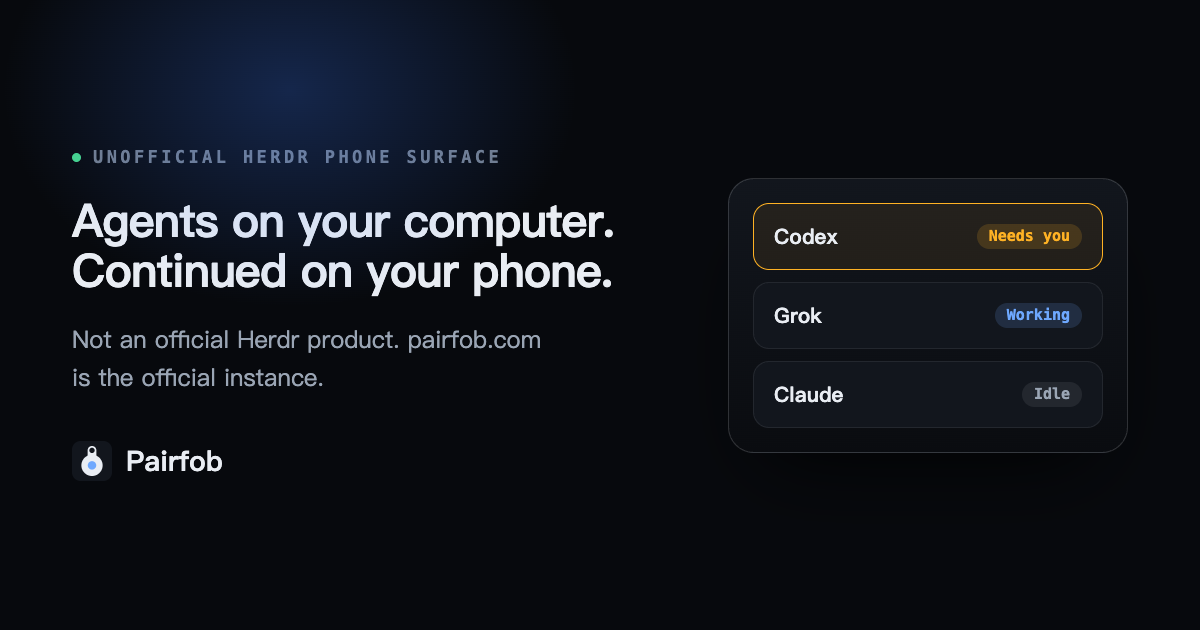
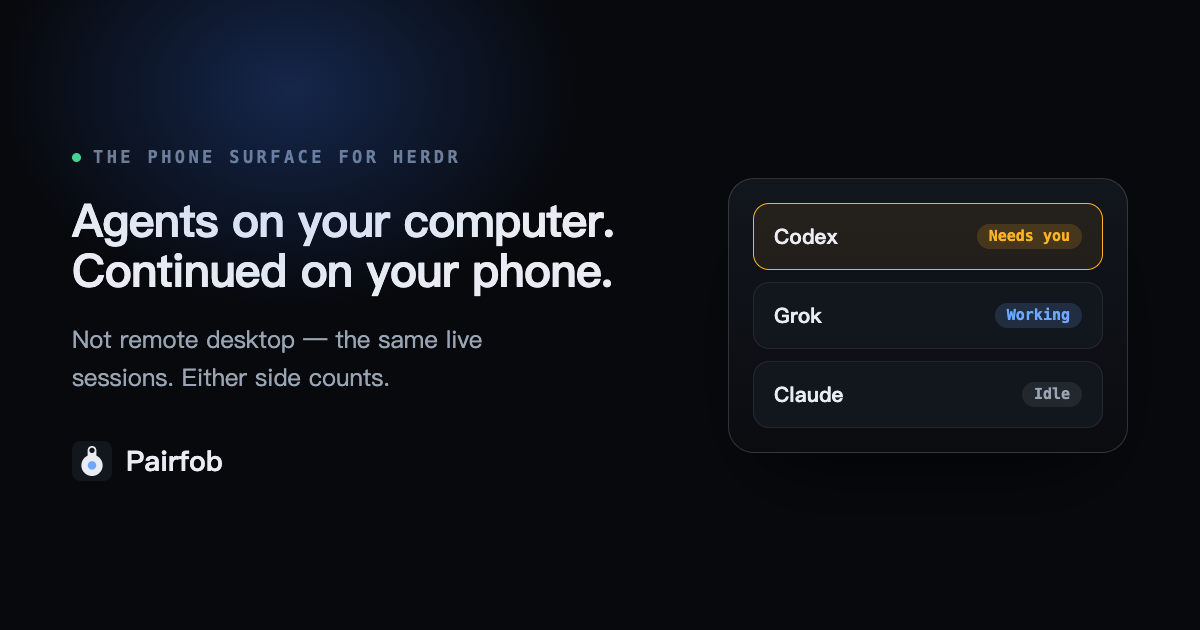
docs: drop unofficial from public copy
Lead with the product sentence. pairfob.com as the official instance stays
in the FAQ and footer.

Changed region(s): [[0.0617, 0.5127, 0.4625, 0.6333], [0.0617, 0.2413, 0.2775, 0.2714], [0.3083, 0.2413, 0.4317, 0.2714]]

diff --git a/site/index.html b/site/index.html
@@ -6,7 +6,7 @@
     <title>Pairfob — continue the AI agent session on your computer from your phone</title>
     <meta
       name="description"
-      content="Unofficial phone surface for Herdr. Continue the same live sessions from your phone. pairfob.com is this project's official instance; no account, no inbound ports."
+      content="Continue the coding agents already running on your computer from your phone. Pairfob is the phone surface for Herdr: Codex, Claude, and Grok stay one session on both sides, end-to-end encrypted, no VPN and no inbound ports."
     />
     <link rel="canonical" href="https://pairfob.com/" />
     <link rel="alternate" hreflang="en" href="https://pairfob.com/" />
@@ -21,7 +21,7 @@
     <meta property="og:title" content="Pairfob — continue the AI agent session on your computer from your phone" />
     <meta
       property="og:description"
-      content="Unofficial phone surface for Herdr. Continue the same live sessions from your phone. pairfob.com is this project's official instance; no account, no inbound ports."
+      content="Codex, Claude, and Grok in Herdr on your computer. Open Pairfob on the phone and it is the same herd. Not remote desktop — the same live sessions."
     />
     <meta property="og:image" content="https://pairfob.com/og-en.png" />
     <meta property="og:image:width" content="1200" />
@@ -33,7 +33,7 @@
     <meta name="twitter:title" content="Pairfob — continue the AI agent session on your computer from your phone" />
     <meta
       name="twitter:description"
-      content="Unofficial phone surface for Herdr. Continue the same live sessions from your phone. pairfob.com is this project's official instance; no account, no inbound ports."
+      content="Codex, Claude, and Grok in Herdr on your computer. Open Pairfob on the phone and it is the same herd. Not remote desktop — the same live sessions."
     />
     <meta name="twitter:image" content="https://pairfob.com/og-en.png" />
 
@@ -552,7 +552,7 @@
         "url": "https://pairfob.com/",
         "applicationCategory": "DeveloperApplication",
         "operatingSystem": "iOS, Android, macOS, Linux",
-        "description": "Unofficial phone surface for Herdr. Continue the same live sessions from your phone. pairfob.com is this project's official instance; no account, no inbound ports.",
+        "description": "Continue the coding agents already running on your computer from your phone. Pairfob is the phone surface for Herdr: one session on both sides, end-to-end encrypted.",
         "offers": { "@type": "Offer", "price": "0", "priceCurrency": "USD" },
         "softwareRequirements": "Herdr 0.7 or newer",
         "license": "https://www.apache.org/licenses/LICENSE-2.0",
@@ -560,7 +560,7 @@
       }
     </script>
 
-    <script src="/home-i18n.js?v=66"></script>
+    <script src="/home-i18n.js?v=67"></script>
     <script src="/site.js?v=49"></script>
   </body>
 </html>

diff --git a/site/home-i18n.js b/site/home-i18n.js
@@ -4,7 +4,7 @@
   const zh = {
     title: "Pairfob — 手机接着操作电脑上的 AI Agent 会话",
     description:
-      "Herdr 的非官方手机端。在手机上接着操作电脑里正在跑的会话。pairfob.com 是本项目官方实例；不用注册，不开公网端口。",
+      "在手机上接着操作电脑里正在跑的 AI 编码 Agent。Pairfob 是 Herdr 的手机端，Codex、Claude、Grok 的会话两端同步，端到端加密，不用 VPN、不开公网端口。",
     "og.image.alt": "Pairfob：电脑和手机上是同一份 Agent 会话列表",
     skip: "跳到正文",
     "brand.aria": "Pairfob 首页",
@@ -138,7 +138,7 @@
   const en = {
     title: "Pairfob — continue the AI agent session on your computer from your phone",
     description:
-      "Unofficial phone surface for Herdr. Continue the same live sessions from your phone. pairfob.com is this project's official instance; no account, no inbound ports.",
+      "Continue the coding agents already running on your computer from your phone. Pairfob is the phone surface for Herdr: Codex, Claude, and Grok stay one session on both sides, end-to-end encrypted, no VPN and no inbound ports.",
     "og.image.alt": "Pairfob: the same agent list on computer and phone",
     skip: "Skip to content",
     "brand.aria": "Pairfob home",

diff --git a/site/doc/content.test.ts b/site/doc/content.test.ts
@@ -102,14 +102,11 @@ describe("user-facing documentation", () => {
     expect(faq).toContain("官方实例");
     expect(faq).toContain("Apache-2.0");
     expect(faq).toContain("新电脑登记随时可能关上");
-    expect(faq).toContain("不是 Herdr 的官方产品");
     expect(faqEn).toContain("official instance");
     expect(faqEn).toContain("Apache-2.0");
     expect(faqEn).toContain("New computer setup can close");
-    expect(faqEn).toContain("not an official Herdr product");
     expect(indexZh).toContain("官方实例");
     expect(indexEn).toContain("Official instance");
-    expect(indexEn).toContain("not an official Herdr product");
   });
 
   test("design section stays a product overview", () => {

diff --git a/site/doc/home-i18n.test.ts b/site/doc/home-i18n.test.ts
@@ -88,10 +88,8 @@ describe("homepage i18n", () => {
     expect(zh["faq.a6"]).toContain("新电脑登记随时可能关上");
     expect(en["foot.blurb"]).toContain("official instance");
     expect(zh["foot.blurb"]).toContain("官方实例");
-    expect(en.description).toContain("Unofficial phone surface for Herdr");
-    expect(en.description).toContain("official instance");
-    expect(zh.description).toContain("非官方手机端");
-    expect(zh.description).toContain("官方实例");
+    expect(en.description).toContain("phone surface for Herdr");
+    expect(zh.description).toContain("Herdr 的手机端");
     expect(html).toContain(en.description);
   });
 

diff --git a/site/og.html b/site/og.html
@@ -13,9 +13,9 @@
   <body>
     <div class="glow"></div>
     <div>
-      <p class="eyebrow"><i></i>Herdr 的非官方手机端</p>
+      <p class="eyebrow"><i></i>Herdr 的手机端</p>
       <h1>电脑上跑的 Agent，<br />手机随时接着操作。</h1>
-      <p>不是 Herdr 官方产品。官方实例是 pairfob.com。</p>
+      <p>不是远程桌面，是电脑上正在跑的那些会话。两端谁操作都算数。</p>
       <div class="wm">
         <svg viewBox="0 0 512 512" aria-hidden="true">
           <rect width="512" height="512" rx="112" fill="#12161d" />

diff --git a/site/og-en.html b/site/og-en.html
@@ -13,9 +13,9 @@
   <body>
     <div class="glow"></div>
     <div>
-      <p class="eyebrow"><i></i>Unofficial Herdr phone surface</p>
+      <p class="eyebrow"><i></i>The phone surface for Herdr</p>
       <h1>Agents on your computer.<br />Continued on your phone.</h1>
-      <p>Not an official Herdr product. pairfob.com is the official instance.</p>
+      <p>Not remote desktop — the same live sessions. Either side counts.</p>
       <div class="wm">
         <svg viewBox="0 0 512 512" aria-hidden="true">
           <rect width="512" height="512" rx="112" fill="#12161d" />

diff --git a/AGENTS.md b/AGENTS.md
@@ -9,7 +9,7 @@ pairfob --outbound WSS--> 该 DO --opaque FWD-- 同一 DO 上的 phone
 pairfob --loopback--> HarnessRuntime
 ```
 
-Relay / DO 只做帧级 relay，不解析 `FWD`。身份与密钥只在 daemon。读和写都要求 `Established` 会话。产品 relay 只有 `workers/pairfob-origin`（`pairfob.v2`）。`https://pairfob.com` 是本项目的官方实例，不是 Herdr 官方产品。新电脑登记可关（`SIGNUP_OPEN` / `ENROLL_OPEN`），这是成本阀，已登记的电脑继续可用。用户文档不提供自建 origin。`internal/mux` Hub 仅作 daemon 进程内测试替身，不是可部署 origin。
+Relay / DO 只做帧级 relay，不解析 `FWD`。身份与密钥只在 daemon。读和写都要求 `Established` 会话。产品 relay 只有 `workers/pairfob-origin`（`pairfob.v2`）。`https://pairfob.com` 是本项目的官方实例。新电脑登记可关（`SIGNUP_OPEN` / `ENROLL_OPEN`），这是成本阀，已登记的电脑继续可用。用户文档不提供自建 origin。`internal/mux` Hub 仅作 daemon 进程内测试替身，不是可部署 origin。
 
 ## 文件规模（硬性）
 

diff --git a/site/doc/index.md b/site/doc/index.md
@@ -87,11 +87,10 @@ You already run coding agents in Herdr 0.7 or newer on a computer, and you want 
 - You need the entire desktop, browser, or IDE window
 - You want Pairfob to keep sessions and keys in the cloud
 - The host computer must be Windows (not built yet)
-- You need an official Herdr, Anthropic, or OpenAI app
 
 ## Official instance
 
-`https://pairfob.com` is this project's official relay and web app. Install and pairing use that origin. Pairfob is not an official Herdr product.
+`https://pairfob.com` is this project's official relay and web app. Install and pairing use that origin.
 
 New computer setup can close. Already-enrolled computers keep working. This page does not promise capacity.
 

diff --git a/site/doc/faq.md b/site/doc/faq.md
@@ -11,7 +11,7 @@ No. There is no email login. The computer enrolls when you run the installer. De
 
 ## Can Pairfob run agents by itself?
 
-No. It is the phone surface for [Herdr](https://herdr.dev), not an official Herdr product. The computer needs Herdr 0.7 or newer installed. `pairfob` starts Herdr when needed. If automatic startup fails, the list shows Herdr offline and recovers after you run `herdr` manually.
+No. It is the phone surface for [Herdr](https://herdr.dev). The computer needs Herdr 0.7 or newer installed. `pairfob` starts Herdr when needed. If automatic startup fails, the list shows Herdr offline and recovers after you run `herdr` manually.
 
 ## Is this remote desktop?
 

diff --git a/site/doc/zh/index.md b/site/doc/zh/index.md
@@ -87,11 +87,10 @@ pageClass: pf-intro
 - 需要远程控制整台电脑的桌面、浏览器、IDE 窗口
 - 希望 Pairfob 在云上替你保管会话和密钥
 - 需要 Windows 电脑当宿主（还没做）
-- 需要 Herdr、Anthropic 或 OpenAI 的官方应用
 
 ## 官方实例
 
-`https://pairfob.com` 是本项目的官方中转和网页。安装和配对走这个入口。Pairfob 不是 Herdr 的官方产品。
+`https://pairfob.com` 是本项目的官方中转和网页。安装和配对走这个入口。
 
 新电脑登记可能随时关上。已经登记的电脑继续可用。本文不承诺容量。
 

diff --git a/README.md b/README.md
@@ -2,7 +2,6 @@
 
 Phone surface for a [Herdr](https://herdr.dev) agent herd: the same live
 sessions on computer and phone. Pairing code, outbound daemon, no Tailscale.
-Pairfob is not an official Herdr product.
 
 `https://pairfob.com` is this project's official instance (Cloudflare Worker +
 one Durable Object per `daemon_id`). There is no account and no capacity
